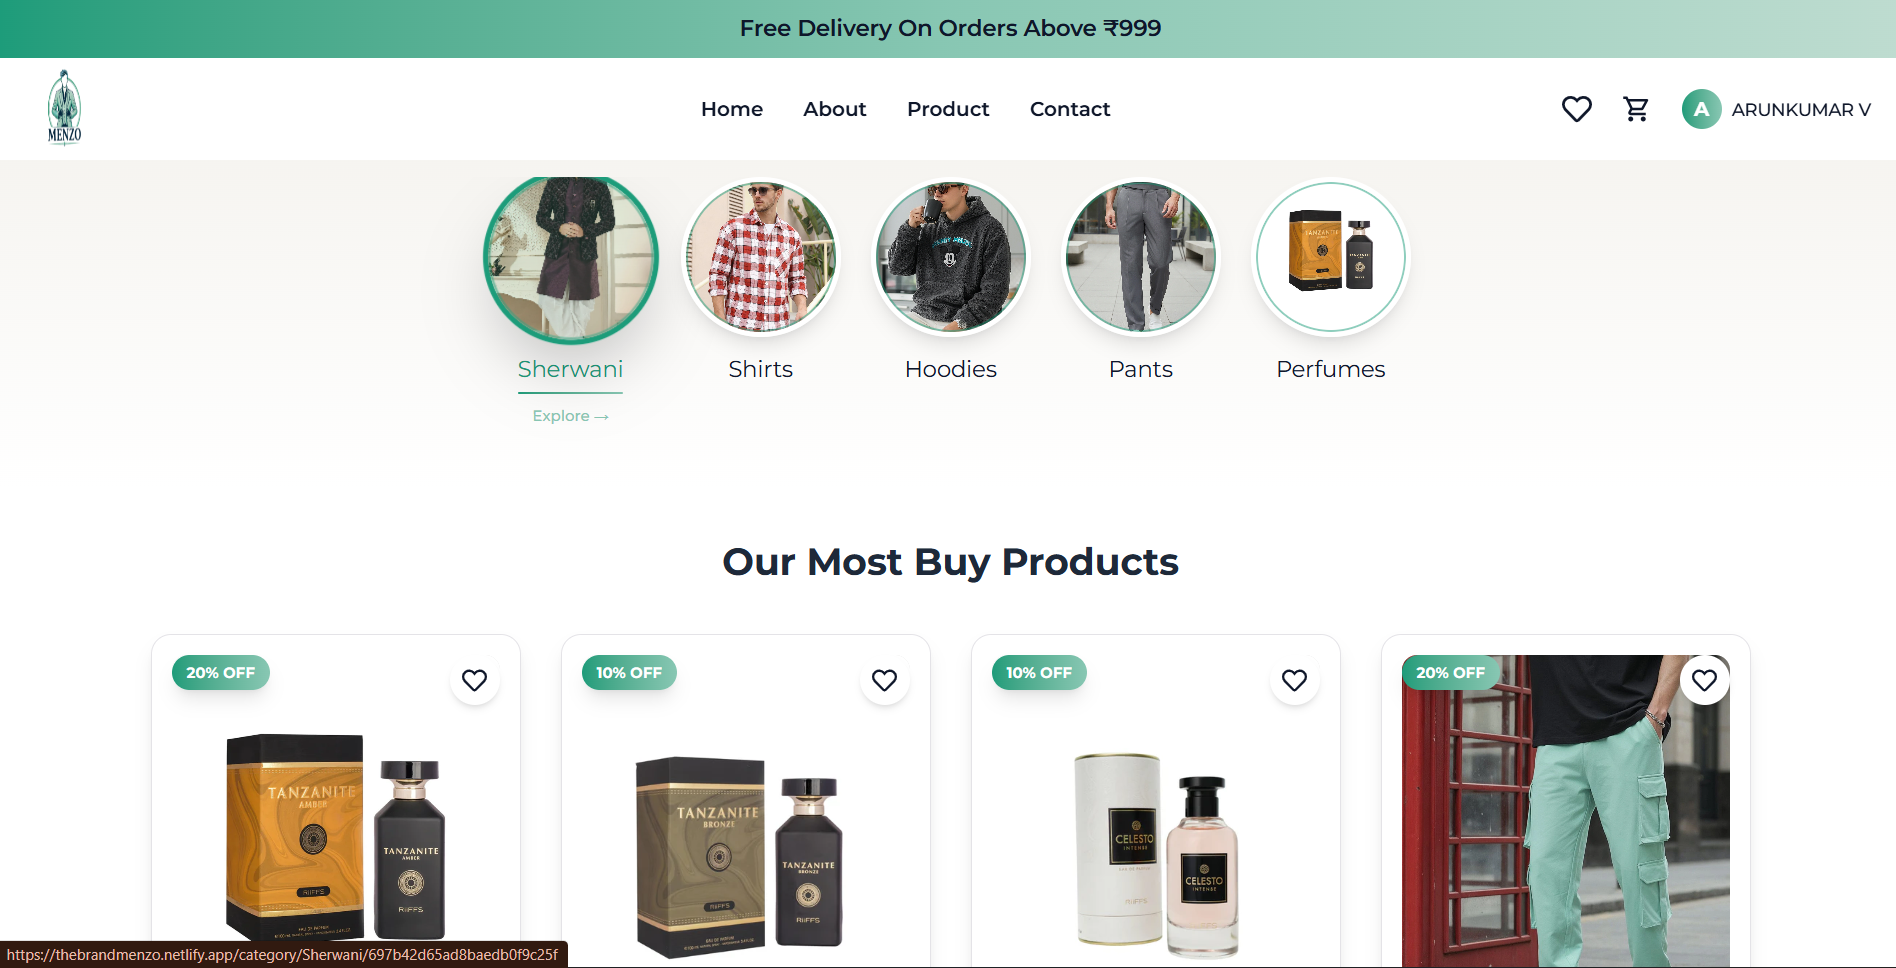
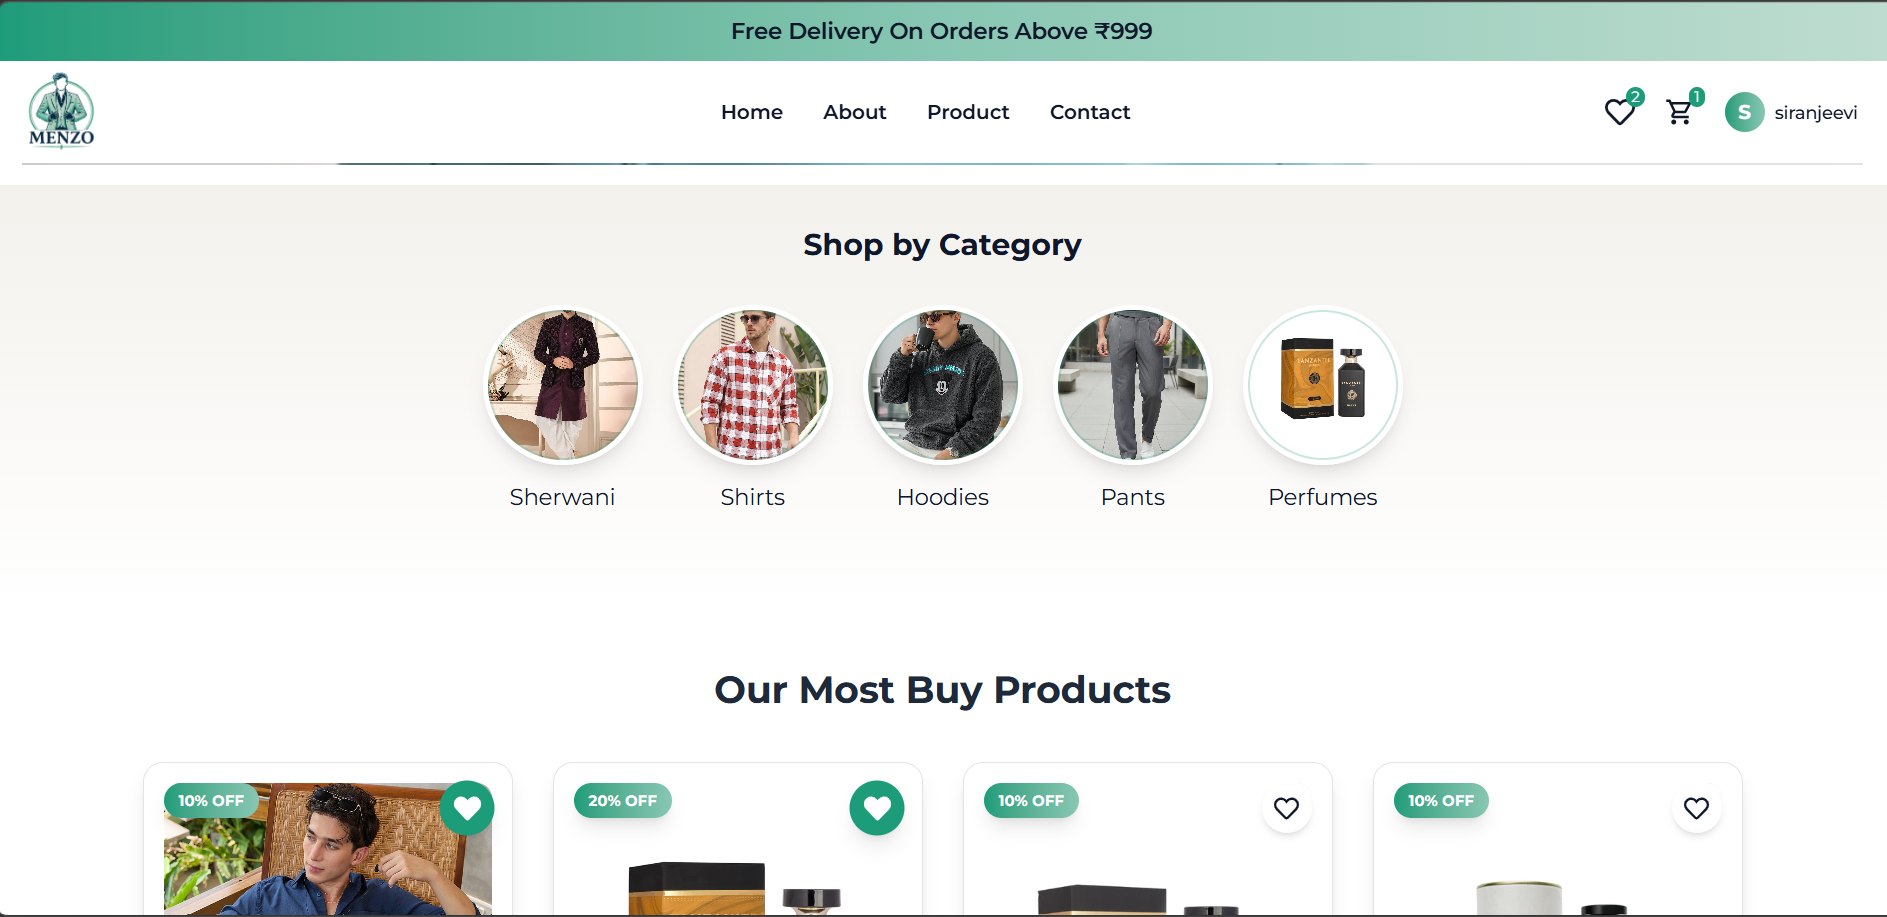
second commit

diff --git a/src/components/Projects.jsx b/src/components/Projects.jsx
@@ -26,7 +26,7 @@ const Projects = () => {
         'A responsive portfolio website built with React.js, Tailwind CSS, and backend technologies, featuring a modern UI and optimized performance.',
       technologies: ['React.js', 'Tailwind CSS', 'Node.js', 'Express.js', 'MongoDB'],
       liveLink: '#',
-      githubLink: 'https://github.com/ARUNKUMAR-VENKATRAMAN/ARUN-PORTFOLIO',
+      githubLink: 'https://github.com/Siranjeevi0622/siranjeevi-portfolio.git',
       image: 'portfolio.png',
     },
     {
